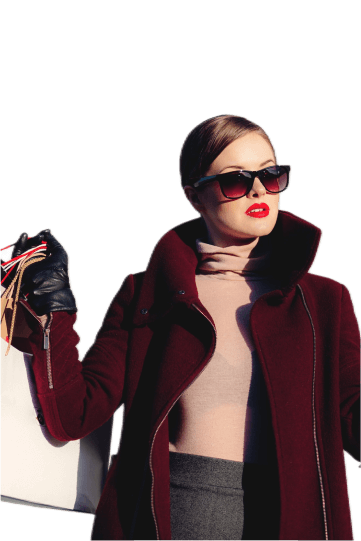
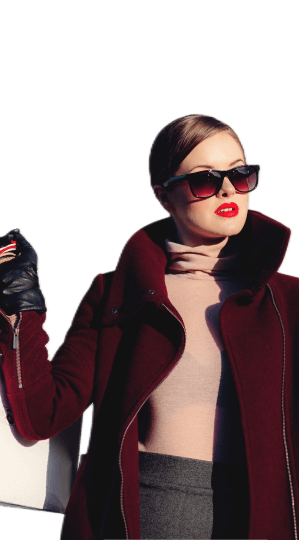
sssa

diff --git a/components/layout/App/DiscountProducts.vue b/components/layout/App/DiscountProducts.vue
@@ -1,13 +1,29 @@
 <template>
-  <div class="products-line">
-      <div class="banner">
-          <div class="info">
-                <h3>Have time to buy</h3>
-                <nuxt-link to="/discover" class="btn btn-white">promo codes</nuxt-link>
-          </div>
-      </div>
-      <ProductCard v-for="(card, i) in 6" :key="i"/>
-  </div>
+    <div class="root">
+        <div class="section heading-container">
+                <h4 class="heading">Take it at a discount</h4>
+        </div>
+        <div class="banner-container banner-mobile">
+            <div class="banner">
+                    <div class="info">
+                        <h3>Have time <br> to buy</h3>
+                        <nuxt-link to="/discover" class="btn btn-white">promo codes</nuxt-link>
+                    </div>
+                    <img src="@/assets/img/bannerGirl.png" alt="Girl" class="girl">
+                </div>
+                <img src="@/assets/img/gridIndexSignup.png" alt="Grid" class="grid-image">
+        </div>
+        <div class="section discount-products-line">
+            <div class="banner banner-desktop">
+                <div class="info">
+                    <h3>Have time <br> to buy</h3>
+                    <nuxt-link to="/discover" class="btn btn-white">promo codes</nuxt-link>
+                </div>
+                <img src="@/assets/img/bannerGirl.png" alt="Girl" class="girl">
+            </div>
+            <ProductCard v-for="(card, i) in 6" :key="i"/>
+        </div>
+    </div>
 </template>
 
 <script>
@@ -21,15 +37,127 @@
 </script>
 
 <style lang='scss' scoped>
-.products-line {
+.root {
+    
+    .heading {
+    }
+
+    .banner-desktop {
+        @media only screen and (max-width: 850px) {
+            display: none;
+        }
+    }
+
+    .banner-mobile {
+        @media only screen and (min-width: 850px) {
+            display: none;
+        }
+    }
+
+    .grid-image {
+        position: absolute;
+        right: -5rem;
+        top: 50%;
+        transform: translateY(-50%);
+        height: 90%;
+        // width: 60%;
+        max-width: 80%;
+    }
+
+    .heading-container {
+        font-size: 2.4rem;
+        margin-bottom: 2.5rem;
+
+        @media only screen and (max-width: 850px) {
+            width: 45%;
+            text-align: center;
+            font-size: 3rem;
+        }
+
+        @media only screen and (max-width: 650px) {
+            width: 40rem;
+        }
+    }
+
+    .banner {
+        grid-row: 1 / span 2;
+        position: relative;
+        background-color: #4F23EA;
+        border-radius: 8px;
+        text-align: center;
+        overflow: hidden;
+        padding-top: 5rem;
+        z-index: 100;
+
+        @media only screen and (max-width: 850px) {
+            width: 45%;
+            height: 70rem;
+            margin: 0 auto;
+        }
+
+        @media only screen and (max-width: 650px) {
+            height: 65rem;
+            width: 40rem;
+        }
+
+        &-container {
+            width: 100%;
+            background-color: $color-orange;
+            padding: 2.5rem 0;
+            margin-bottom: 4rem;
+            position: relative;
+            overflow: hidden;
+        }
+
+        .girl {
+            width: 100%;
+            position: absolute;
+            bottom: 0;
+            left: 0;
+
+            @media only screen and (max-width: 850px) {
+                bottom: -25rem;
+            }
+
+            @media only screen and (max-width: 650px) {
+                bottom: -20rem;
+            }
+        }
+
+        .info {
+
+            h3 {
+                text-transform: uppercase;
+                font-size: 3rem;
+                margin-bottom: 2rem;
+                // width: 80%;
+
+                @media only screen and (max-width: 850px) {
+                    font-size: 3.75rem;
+                }
+            }
+
+            .btn {
+                padding: 1.25rem 3.6rem;
+                font-weight: 400 !important;
+
+                @media only screen and (max-width: 850px) {
+                    font-size: 1.75rem;
+                }
+            }
+        }
+    }
+}
+
+.discount-products-line {
     display: grid;
     grid-template-columns: repeat(4, 1fr);
-    // grid-template-rows: 100%;
+    grid-auto-columns: 1fr;
     grid-column-gap: 3rem;
     grid-row-gap: 3rem;
 
     @media only screen and (max-width: 850px) {
-        grid-template-columns: repeat(2, 33%);
+        grid-template-columns: repeat(2, 35%);
         justify-content: center;
     }
 

diff --git a/components/layout/IndexPage/DiscountBlock.vue b/components/layout/IndexPage/DiscountBlock.vue
@@ -1,5 +1,5 @@
 <template>
-    <div class="root">
+    <div class="section root">
         <div class="discount left">
             <div class="info">
                 <h2>discounts</h2>
@@ -32,8 +32,13 @@ export default {
     display: flex;
     margin-bottom: 4rem;
 
-    @media only screen and (max-width: 550px) {
+    @media only screen and (max-width: 850px) {
         flex-direction: column;
+        width: 66%;
+    }
+
+    @media only screen and (max-width: 600px) {
+        width: 90%;
     }
 
     .left {
@@ -54,7 +59,7 @@ export default {
         //     width: 90%;
         // }
 
-        @media only screen and (max-width: 550px) {
+        @media only screen and (max-width: 850px) {
             width: 100%;
         }
 
@@ -66,7 +71,7 @@ export default {
         }
 
         .btn {
-            padding: 1.25rem 5rem;
+            padding: 1rem 5rem;
             font-weight: 400 !important;
         }
     }
@@ -79,7 +84,7 @@ export default {
             width: 26%;
         }
 
-        @media only screen and (max-width: 550px) {
+        @media only screen and (max-width: 850px) {
             width: 100%;
             margin-top: 3rem;
         }
@@ -89,7 +94,7 @@ export default {
             text-transform: uppercase;
             margin-bottom: .5rem;
 
-            @media only screen and (max-width: 550px) {
+            @media only screen and (max-width: 850px) {
                 font-size: 2.4rem;
                 margin-bottom: 1rem;
             }
@@ -104,20 +109,20 @@ export default {
         .promo {
             margin-bottom: 1.5rem;
 
-            @media only screen and (max-width: 550px) {
+            @media only screen and (max-width: 850px) {
                 margin-bottom: 0;
             }
 
             h3 {
                 width: 17rem;
 
-                @media only screen and (max-width: 550px) {
+                @media only screen and (max-width: 850px) {
                     width: 20rem;
                 }
             }
 
             .subheading {
-                @media only screen and (max-width: 550px) {
+                @media only screen and (max-width: 850px) {
                     font-size: 1.8rem;
                 }
             }
@@ -130,7 +135,7 @@ export default {
                 color: white;
                 margin-top: 1rem;
 
-                @media only screen and (max-width: 550px) {
+                @media only screen and (max-width: 850px) {
                     // width: 70%;
                     width: 30rem;
                     padding: 1rem 3rem;
@@ -147,7 +152,7 @@ export default {
             position: absolute;
             bottom: 0;
 
-            @media only screen and (max-width: 550px) {
+            @media only screen and (max-width: 850px) {
                 display: none;
             }
 

diff --git a/components/layout/App/ProductsLine.vue b/components/layout/App/ProductsLine.vue
@@ -1,7 +1,9 @@
 <template>
-  <div class="products-line">
-      <ProductCard v-for="(card, i) in 4" :key="i"/>
-  </div>
+    <div class="section">
+        <div class="products-line">
+            <ProductCard v-for="(card, i) in 4" :key="i"/>
+        </div>
+    </div>
 </template>
 
 <script>
@@ -23,9 +25,10 @@
     grid-column-gap: 3rem;
     grid-row-gap: 3rem;
     margin-bottom: 12rem;
+    width: 100%;
 
     @media only screen and (max-width: 850px) {
-        grid-template-columns: repeat(2, 33%);
+        grid-template-columns: repeat(2, 35%);
         justify-content: center;
     }
 

diff --git a/components/elements/ProductCard.vue b/components/elements/ProductCard.vue
@@ -54,7 +54,7 @@ export default {
             display: block;
             width: 85%;
             margin: 0 auto;
-
+            border-radius: 8px;
         }
 
         .container {
@@ -66,7 +66,7 @@ export default {
             transform: translateX(-50%);
                 
                 @media only screen and (max-width: 1100px) {
-                    transform: translateX(-50%) scale(.8);
+                    transform: translateX(-50%) scale(.9);
                     bottom: -1.5rem;
                 }
 

diff --git a/pages/index.vue b/pages/index.vue
@@ -2,7 +2,7 @@
     <div class="index-page">
         <!-- <img src="@/assets/img/cornerLight.png" alt="Corner light" class="corner-light"> -->
         <HeaderIndex/>
-        <main class="section">
+        <main>
             <DiscountBlock/>
             <ProductsLine/>
             <DiscountProducts/>

diff --git a/assets/scss/typography.scss b/assets/scss/typography.scss
@@ -110,7 +110,7 @@
 
 .btn-white {
     border: 2px solid white;
-    border-radius: 6px;
+    border-radius: 8px;
 
     &:hover {
         color: black;
